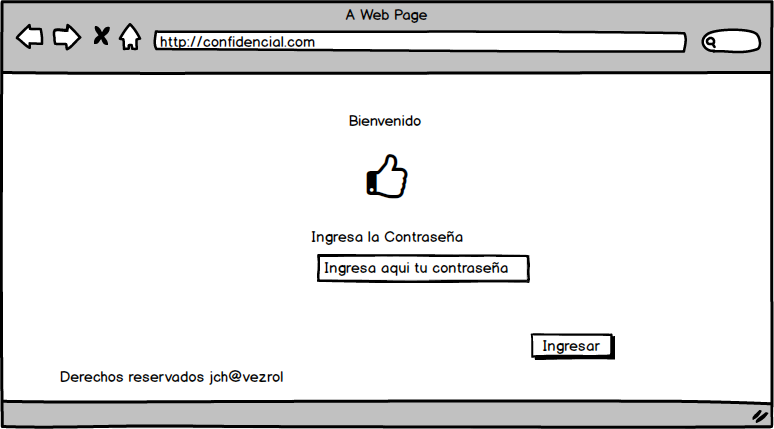
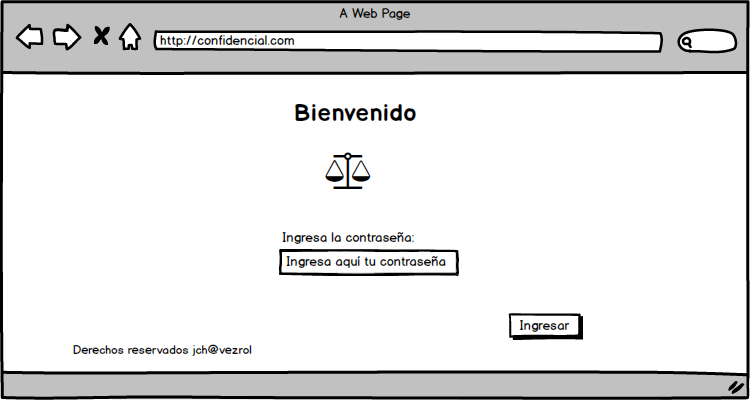
Agregue el prototipo en blsamiq

diff --git a/README.md b/README.md
@@ -18,7 +18,7 @@ El progrma permite obtener la declaracion de un testigo protegido y su Abogado, 
  [1]: imagenes/1.png
  [2]: imagenes/2.png
  [3]: imagenes/3.png
- [4]: imagenes/4.png "4"
+ [4]: imagenes/4.png 
 
 
 
